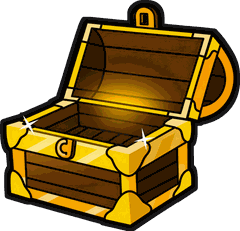
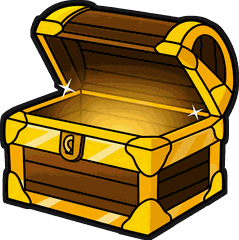
Juice: open chest redrawn at the closed chest's angle, same footprint

diff --git a/src/screens/threads/ChestButton.tsx b/src/screens/threads/ChestButton.tsx
@@ -51,7 +51,7 @@ const spring = (c: { damping: number; stiffness: number; mass?: number }) =>
 /** Alex's chest, open and empty (it opens a menu, not a payout). GPT Image from chest_closed.png; see juice/art/ART_QA.md. */
 const OPEN_ART = require('../../../assets/images/social/chest_open_empty.png');
 const SIZE = 36;
-const OPEN_SIZE = 42;
+const OPEN_SIZE = 35;
 const FX = 96; // the star canvas, centred on the chest
 const STARS = [
   { a: -2.45, d: 28, s: 5.5 },
@@ -228,7 +228,7 @@ export default function ChestButton({
 const styles = StyleSheet.create({
   hit: { alignItems: 'center', minWidth: 48 },
   chest: { width: SIZE, height: SIZE },
-  open: { position: 'absolute', left: -1, top: -8 },
+  open: { position: 'absolute', left: 1, top: -2 },
   fx: { position: 'absolute', width: FX, height: FX, left: 24 - FX / 2, top: SIZE / 2 - FX / 2 },
   text: { fontFamily: 'Shark', fontSize: 11, color: BRAND.white, marginTop: -2, textShadowColor: BRAND.navy, textShadowOffset: { width: 0, height: 1 }, textShadowRadius: 0 },
 });
